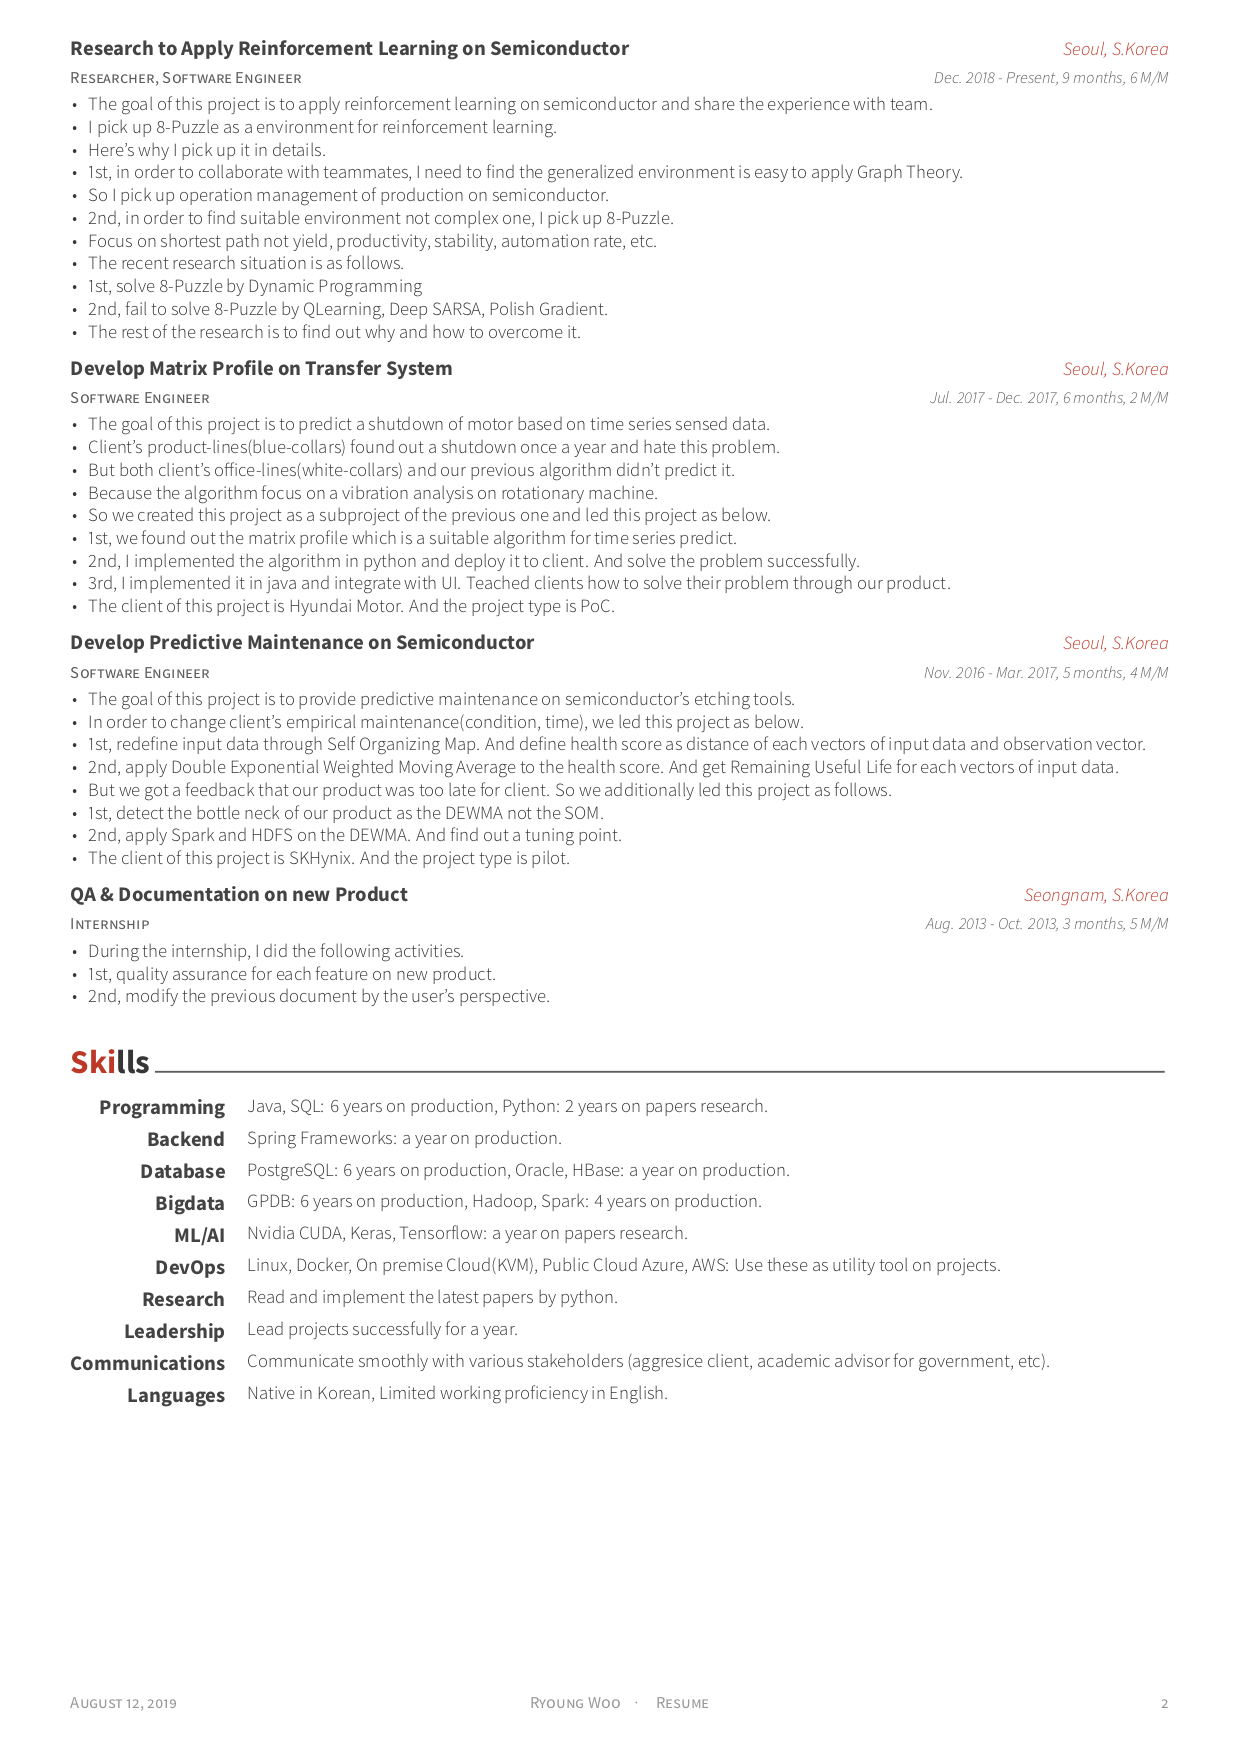
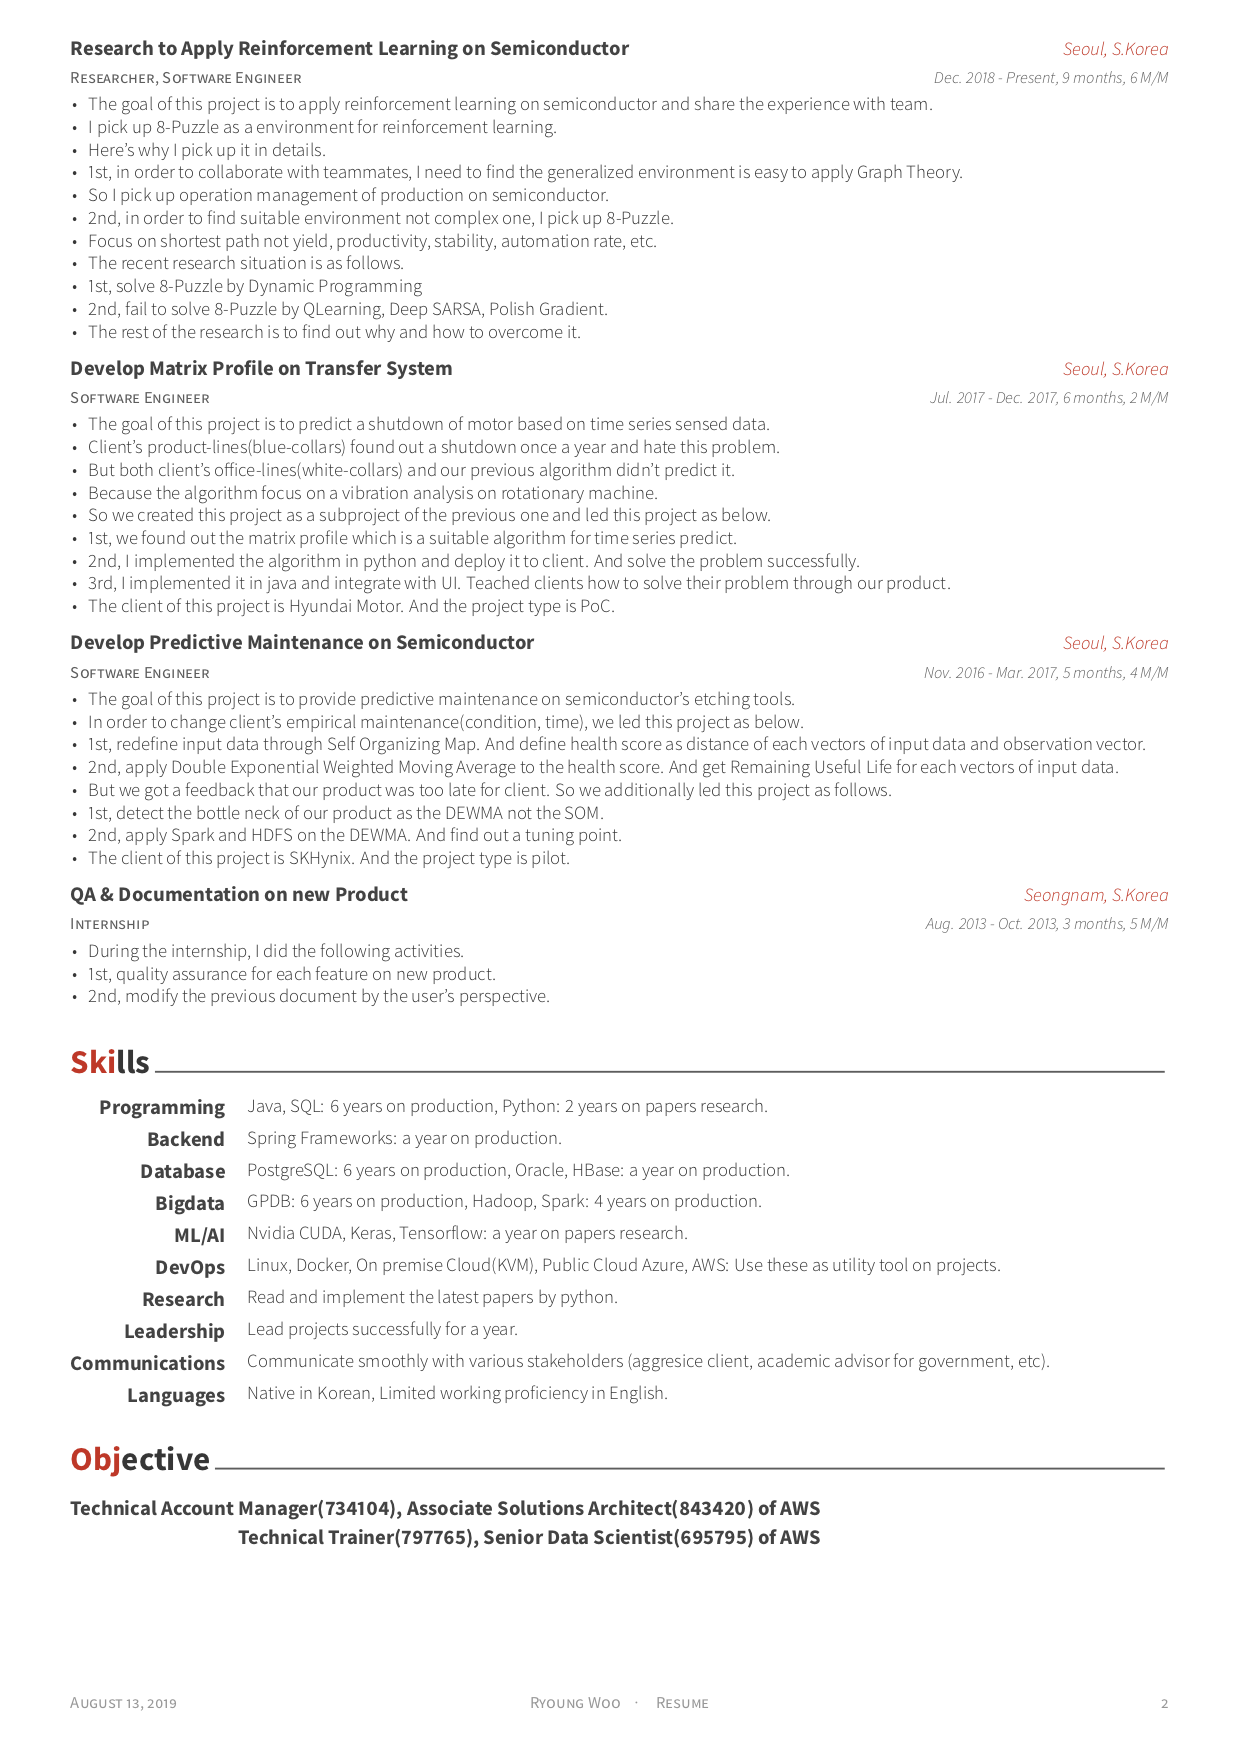
#21-modify-objective ``` modified:   examples/resume-0.png modified:   examples/resume-1.png modified:   examples/resume.pdf modified:   examples/resume.tex new file:   examples/resume/objective.tex ```

Changed region(s): [[0.0613, 0.8317, 0.6742, 0.8933]]

diff --git a/examples/resume/objective.tex b/examples/resume/objective.tex
@@ -1,0 +1,20 @@
+%-------------------------------------------------------------------------------
+%    SECTION TITLE
+%-------------------------------------------------------------------------------
+\cvsection{Objective}
+
+
+%-------------------------------------------------------------------------------
+%    CONTENT
+%-------------------------------------------------------------------------------
+\begin{cvskills}
+
+%---------------------------------------------------------
+  \cvskill
+    {Technical Account Manager(734104), Associate Solutions Architect(843420) of AWS}
+    {}
+%---------------------------------------------------------
+  \cvskill
+    {Technical Trainer(797765), Senior Data Scientist(695795) of AWS}
+    {}
+\end{cvskills}

diff --git a/examples/resume.tex b/examples/resume.tex
@@ -101,6 +101,7 @@
 \input{resume/education.tex}
 \input{resume/project.tex}
 \input{resume/skills.tex}
+\input{resume/objective.tex}
 % \input{resume/honors.tex}
 % \input{resume/writing.tex}
 % \input{resume/committees.tex}
